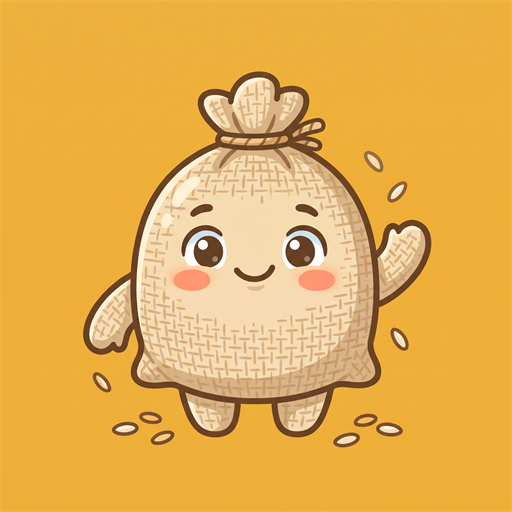
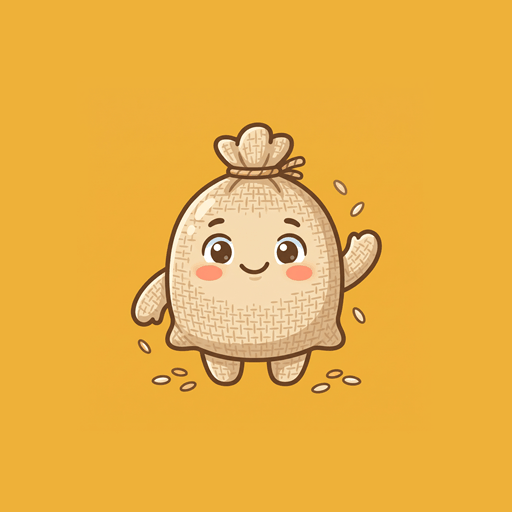
Phase 4: offline and install (v1.0.0)
- Service worker saves every app file and picture (versioned cache) and
  uses the saved copy first, so the app opens with no internet.
- "New version ready. Tap to update." button; nothing reloads by itself.
- manifest.json with 192/512 icons and a maskable icon; smaller icons.
- "Install the app on this phone" offer; install status in Coach mode.

diff --git a/docs/app.js b/docs/app.js
@@ -7,7 +7,7 @@ import { drawReport, COLORS } from './report.js';
 import * as G from './game.js';
 import { esc, img, toast, ask, openSheet, closeSheet, closeAllSheets, topSheet, setAfterClose, celebrate } from './ui.js';
 
-export const APP_VERSION = '0.3.1';
+export const APP_VERSION = '1.0.0';
 
 const S = {
   products: [], stockIns: [], customers: [], orders: [], settings: {},
@@ -91,7 +91,88 @@ async function init() {
   wireGlobal();
   renderMain();
   updateOnline();
-  if ('serviceWorker' in navigator) navigator.serviceWorker.register('./service-worker.js').catch(() => {});
+  PWA.started = true;
+  setupServiceWorker();
+}
+
+// ===================================================================
+// Offline copy, updates and "install on the phone" (Phase 4)
+// ===================================================================
+
+const PWA = { started: false, installEvent: null, offlineReady: false };
+const INSTALL_SNOOZE_DAYS = 7;
+
+function isInstalled() {
+  return window.matchMedia('(display-mode: standalone)').matches || navigator.standalone === true;
+}
+
+// Chrome offers "install" only when the app qualifies; keep the offer and show our own button.
+window.addEventListener('beforeinstallprompt', (e) => {
+  e.preventDefault();
+  PWA.installEvent = e;
+  if (PWA.started) renderMain();
+});
+window.addEventListener('appinstalled', () => {
+  PWA.installEvent = null;
+  if (PWA.started) { toast('Installed. Open it from the Bigas at Mantika icon on the home screen.'); renderMain(); }
+});
+
+function installSnoozed() {
+  try {
+    const t = Number(localStorage.getItem('installSnoozedAt') || 0);
+    return Date.now() - t < INSTALL_SNOOZE_DAYS * 86400000;
+  } catch { return false; }
+}
+
+function installBanner() {
+  if (!PWA.installEvent || isInstalled() || installSnoozed()) return '';
+  return `<div class="banner install">
+    <strong>Install the app on this phone</strong>
+    <p>It opens from the home screen, like other apps, even with no internet.</p>
+    <div class="btn-row"><button type="button" class="btn btn-primary" data-act="install">Install</button>
+      <button type="button" class="btn" data-act="install-later">Not now</button></div>
+  </div>`;
+}
+
+async function doInstall() {
+  const e = PWA.installEvent;
+  if (!e) return;
+  PWA.installEvent = null;
+  try { e.prompt(); await e.userChoice; } catch { /* the offer can be used only once */ }
+  renderMain();
+}
+
+function setupServiceWorker() {
+  if (!('serviceWorker' in navigator)) return;
+  const bar = document.getElementById('update-bar');
+  let tapped = false, reloading = false;
+  const showIfWaiting = (reg) => {
+    if (reg.waiting && navigator.serviceWorker.controller) { bar.hidden = false; document.body.classList.add('has-update'); }
+  };
+  bar.onclick = async () => {
+    const reg = await navigator.serviceWorker.getRegistration();
+    if (reg && reg.waiting) { tapped = true; bar.textContent = 'Updating…'; reg.waiting.postMessage({ type: 'skip-waiting' }); } else location.reload();
+  };
+  // The new version took over because she tapped: load it. (The very first install also
+  // changes the controller; that one must not reload the screen.)
+  navigator.serviceWorker.addEventListener('controllerchange', () => {
+    if (!tapped || reloading) return;
+    reloading = true;
+    location.reload();
+  });
+  navigator.serviceWorker.register('./service-worker.js').then((reg) => {
+    showIfWaiting(reg);
+    reg.addEventListener('updatefound', () => {
+      const w = reg.installing;
+      if (w) w.addEventListener('statechange', () => { if (w.state === 'installed') showIfWaiting(reg); });
+    });
+    navigator.serviceWorker.ready.then(() => { PWA.offlineReady = true; });
+    // Look for a new version when the app comes back to the screen (at most once an hour).
+    let last = Date.now();
+    document.addEventListener('visibilitychange', () => {
+      if (document.visibilityState === 'visible' && navigator.onLine && Date.now() - last > 3600000) { last = Date.now(); reg.update().catch(() => {}); }
+    });
+  }).catch(() => {});
 }
 
 async function firstRun() {
@@ -144,6 +225,8 @@ function wireGlobal() {
       'new-product': () => openProductForm(null),
       'count-stock': () => openStockCountForm(el.dataset.product),
       'add-expense': () => openExpenseForm(),
+      'install': () => doInstall(),
+      'install-later': () => { try { localStorage.setItem('installSnoozedAt', String(Date.now())); } catch { /* fine */ } renderMain(); },
       'count-cash': () => openCashCountForm(),
       'open-entry': () => openEntryDetail(el.dataset.kind, id),
       'send-report': () => openReport(),
@@ -1230,7 +1313,7 @@ function daysSinceBackup() {
 
 // Red banner when the last backup is more than 7 days old; Sunday reminder.
 function banners() {
-  const out = [];
+  const out = [installBanner()];
   const b = daysSinceBackup();
   if (b.days > 7) {
     out.push(`<button type="button" class="banner bad" data-act="backup">${b.never ? 'No backup yet' : `Last backup: ${b.days} days ago`}. Tap here to make a backup file for Coach.</button>`);
@@ -2029,6 +2112,9 @@ function renderCoach(sh, f) {
     <section class="section"><h3>Phone storage and records</h3>
       <div class="card">
         ${rowHtml('Kept safe by Chrome', persisted)}
+        ${rowHtml('Installed on the home screen', isInstalled() ? 'Yes' : 'No')}
+        ${rowHtml('Saved for use with no internet', navigator.serviceWorker && navigator.serviceWorker.controller ? 'Yes' : 'Not yet')}
+        ${rowHtml('App version', APP_VERSION)}
         ${rowHtml('Orders made', k.ordersCreated || 0)}
         ${rowHtml('Edits', k.edits || 0)}
         ${rowHtml('Cancels', k.cancels || 0)}

diff --git a/docs/service-worker.js b/docs/service-worker.js
@@ -1,19 +1,38 @@
-// service-worker.js: keeps a copy of the app on the phone so it opens with no internet.
-// Phase 1: simple version. Uses the internet when it answers within 4 seconds, else the saved copy.
-// Phase 4 adds the "new version, tap to update" button.
-const VERSION = '0.3.1';
+// service-worker.js: keeps a full copy of the app on the phone so it opens with no internet.
+//
+// How updates work:
+//  - Every app file and picture is saved in a cache named after the version below.
+//  - When a new version is published, the phone downloads it in the background into a new cache.
+//    The app then shows "New version ready. Tap to update." Nothing reloads by itself.
+//  - Tapping it switches to the new version and removes the old copy.
+// When you change ANY file in docs/, raise VERSION here and APP_VERSION in app.js (same number),
+// and add any new file to FILES (tests/offline.test.js checks this).
+const VERSION = '1.0.0';
 const CACHE = 'bigas-mantika-' + VERSION;
 
 const FILES = [
-  './', './index.html', './styles.css', './app.js', './ui.js', './db.js', './calc.js',
-  './backup.js', './demo.js', './report.js', './game.js', './assets/images/report-header.jpg',
-  './assets/images/icon-192.png',
+  './', './index.html', './manifest.json', './styles.css',
+  './app.js', './ui.js', './db.js', './calc.js', './backup.js', './demo.js', './report.js', './game.js',
+  './assets/images/icon-192.png', './assets/images/icon-512.png', './assets/images/icon-maskable-512.png',
+  './assets/images/report-header.jpg',
   './assets/images/empty-orders.jpg', './assets/images/empty-customers.jpg',
-  './assets/images/mascot-bigas-isip.jpg', './assets/images/mascot-mantika-cheer.jpg',
+  './assets/images/mascot-bigas-happy.jpg', './assets/images/mascot-bigas-cheer.jpg', './assets/images/mascot-bigas-isip.jpg',
+  './assets/images/mascot-mantika-happy.jpg', './assets/images/mascot-mantika-cheer.jpg', './assets/images/mascot-mantika-isip.jpg',
+  './assets/images/level-1.jpg', './assets/images/level-2.jpg', './assets/images/level-3.jpg',
+  './assets/images/level-4.jpg', './assets/images/level-5.jpg',
+  './assets/images/badge-unang-benta.jpg', './assets/images/badge-10-suki.jpg', './assets/images/badge-10k-benta.jpg',
+  './assets/images/badge-stock-count.jpg', './assets/images/badge-zero-utang.jpg', './assets/images/badge-streak.jpg',
+  './assets/images/badge-level-2.jpg', './assets/images/badge-level-3.jpg',
 ];
 
 self.addEventListener('install', (e) => {
-  e.waitUntil(caches.open(CACHE).then((c) => c.addAll(FILES)).then(() => self.skipWaiting()));
+  // "reload" skips Chrome's normal download cache, so old and new files never get mixed.
+  e.waitUntil(caches.open(CACHE).then((c) => c.addAll(FILES.map((f) => new Request(f, { cache: 'reload' })))));
+  // No skipWaiting here: the new version waits until she taps "Tap to update".
+});
+
+self.addEventListener('message', (e) => {
+  if (e.data && e.data.type === 'skip-waiting') self.skipWaiting();
 });
 
 self.addEventListener('activate', (e) => {
@@ -24,22 +43,23 @@ self.addEventListener('activate', (e) => {
   );
 });
 
+// Saved copy first (fast, and works with no signal). Anything not saved yet is fetched and kept.
 self.addEventListener('fetch', (e) => {
   const req = e.request;
   if (req.method !== 'GET' || new URL(req.url).origin !== self.location.origin) return;
   e.respondWith((async () => {
     const cache = await caches.open(CACHE);
+    if (req.mode === 'navigate') {
+      const page = await cache.match('./index.html');
+      if (page) return page;
+    }
+    const hit = await cache.match(req, { ignoreSearch: true });
+    if (hit) return hit;
     try {
-      const res = await Promise.race([
-        fetch(req),
-        new Promise((_, reject) => setTimeout(() => reject(new Error('slow')), 4000)),
-      ]);
-      if (res.ok) cache.put(req, res.clone());
+      const res = await fetch(req);
+      if (res.ok && res.type === 'basic') cache.put(req, res.clone());
       return res;
     } catch {
-      const hit = await cache.match(req, { ignoreSearch: true });
-      if (hit) return hit;
-      if (req.mode === 'navigate') return (await cache.match('./index.html')) || Response.error();
       return Response.error();
     }
   })());

diff --git a/docs/styles.css b/docs/styles.css
@@ -283,3 +283,18 @@ textarea.input { min-height: 80px; }
 @media (prefers-reduced-motion: reduce) {
   * { animation: none !important; transition: none !important; }
 }
+
+/* ---------- Phase 4: install offer and update button ---------- */
+.banner.install { cursor: default; font-weight: 400; }
+.banner.install strong { display: block; font-size: 18px; }
+.banner.install p { margin: 4px 0 10px; }
+.banner.install .btn-row { margin: 0; }
+.update-bar {
+  position: fixed; left: 12px; right: 12px; z-index: 15;
+  bottom: calc(var(--tabbar) + env(safe-area-inset-bottom) + 10px);
+  min-height: 52px; padding: 10px 14px; border-radius: 12px;
+  border: 2px solid var(--green-dark); background: var(--gold); color: var(--ink);
+  font: inherit; font-weight: 800; font-size: 18px; box-shadow: 0 4px 14px rgba(0,0,0,.2); cursor: pointer;
+}
+.update-bar[hidden] { display: none; }
+body.has-update main { padding-bottom: calc(var(--tabbar) + 90px); }

diff --git a/docs/index.html b/docs/index.html
@@ -6,7 +6,9 @@
   <meta name="theme-color" content="#2e6b30">
   <meta name="description" content="Records for a small rice and cooking-oil business. Works offline.">
   <title>Bigas at Mantika</title>
+  <link rel="manifest" href="./manifest.json">
   <link rel="icon" href="./assets/images/icon-192.png">
+  <link rel="apple-touch-icon" href="./assets/images/icon-192.png">
   <link rel="stylesheet" href="./styles.css">
   <script type="module" src="./app.js"></script>
 </head>
@@ -42,6 +44,8 @@
       <span>Quest</span>
     </button>
   </nav>
+
+  <button type="button" id="update-bar" class="update-bar" hidden>New version ready. Tap to update.</button>
 
   <div id="sheets"></div>
   <div id="dialog-root"></div>
